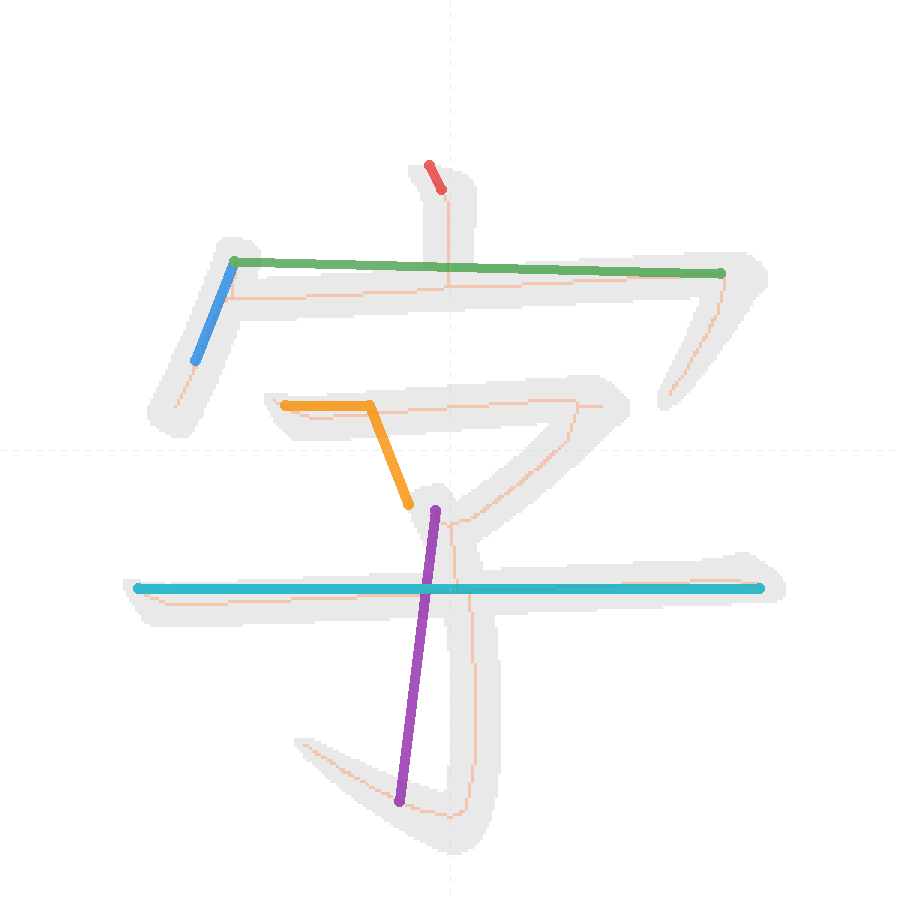
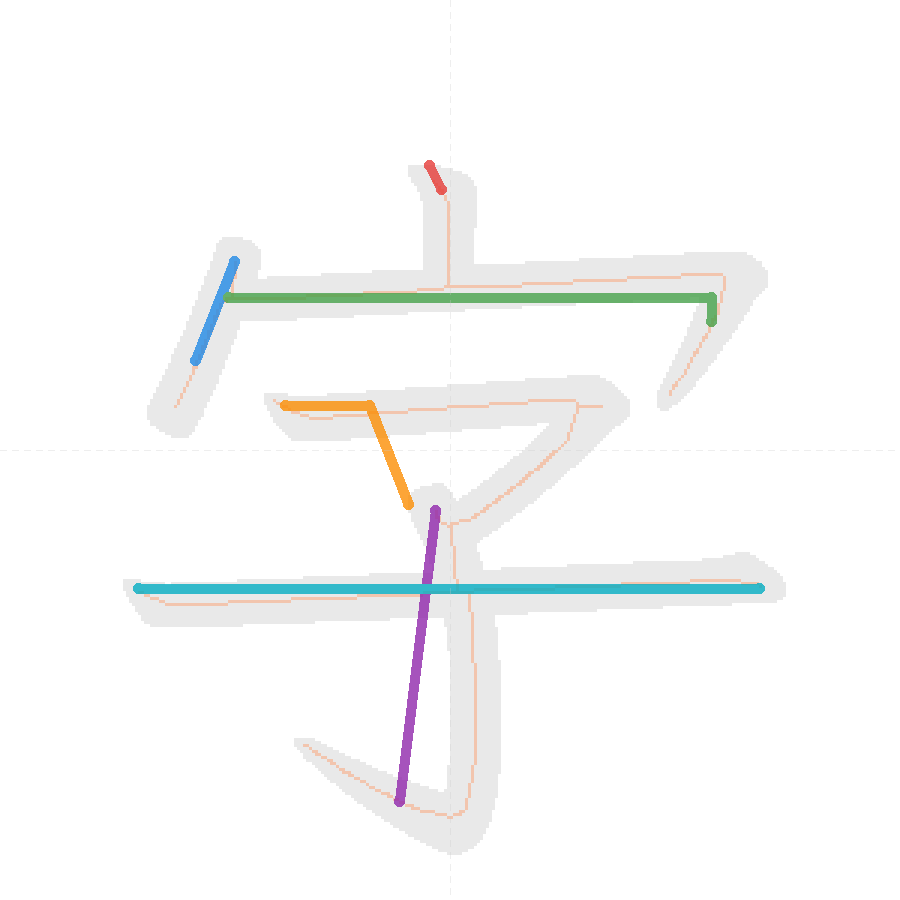
step 6k角点復元の閾値緩和（10→5px）
字の画3(㇖b)・空の画3(㇖b)で角点が復元されるように距離閾値を緩和。
㇖bは縦部分が短いため、閾値10pxでは角点挿入条件を満たさなかった。
6k対象: 3→5ストロークに増加（子/字/学/空）

Changed region(s): [[0.2489, 0.28, 0.8089, 0.3733]]

diff --git a/auto_strokes.py b/auto_strokes.py
@@ -2153,7 +2153,7 @@ def generate_strokes(kanji: str, debug=False) -> dict:
                 # 角点が始点/終点と十分離れている場合のみ挿入
                 d_start = ((cp[0]-s_x)**2 + (cp[1]-s_y)**2)**0.5
                 d_end = ((cp[0]-e_x)**2 + (cp[1]-e_y)**2)**0.5
-                if d_start > 10 and d_end > 10:
+                if d_start > 5 and d_end > 5:
                     simplified = [(s_x, s_y), cp, (e_x, e_y)]
                     direction = "H→V" if first_is_h else "V→H"
                     print(f"    6k: 角点復元 ({cp[0]},{cp[1]}) {direction}")
